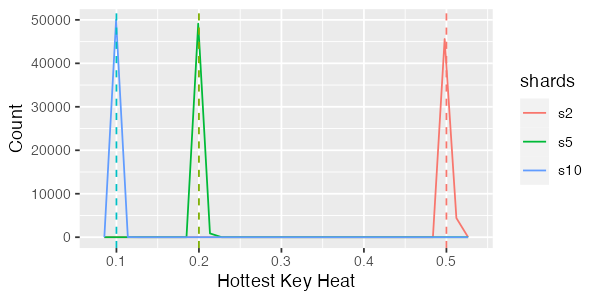
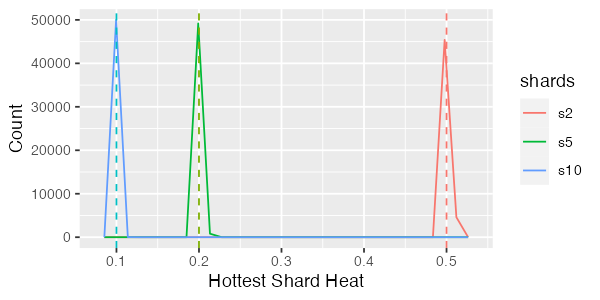
Link to sim code. Fix graph labels

Changed region(s): [[0.33, 0.9, 0.63, 0.96], [0.75, 0.87, 0.78, 0.9]]

diff --git a/_posts/2023-03-07-false-sharing.md b/_posts/2023-03-07-false-sharing.md
@@ -27,7 +27,7 @@ At the extreme end, where there is no stability in the key heat distribution, we
 
 How likely are we to get unlucky in this way?
 
-Let's start with uniformly distributed keys, and think about a database with 10,000 keys, sharded into 2, 5 or 10 different shards. Ideally, for the 2 shard database we'd like to see the hottest shard get 50% of the traffic. For the 10 shard database 10%. This is what the distribution looks like with 50,000 simulation runs (solid lines are simulation results, dotted vertical lines show 'perfect' sharding):
+Let's start with uniformly distributed keys, and think about a database with 10,000 keys, sharded into 2, 5 or 10 different shards. Ideally, for the 2 shard database we'd like to see the hottest shard get 50% of the traffic. For the 10 shard database 10%. This is what the distribution looks like with 50,000 simulation runs (solid lines are simulation results, dotted vertical lines show 'perfect' sharding)<sup>[2](#foot2)</sup>:
 
 ![Simulation results for false sharing on uniform keys](/blog/images/unif_false_sharing_pdf.png)
 
@@ -56,3 +56,4 @@ For example, consider a database table with an `SERIAL` or `AUTO_INCREMENT` prim
 **Footnotes**
 
 1. <a name="foot1"></a> Don't tell the English. If they ask you about it, tell them it's still the most important sporting event in history, then run.
+2. <a name="foot2"></a> You can check out the simulation code [on GitHub](https://github.com/mbrooker/simulator_example/blob/main/false_sharing/false-sharing.R) if you want to check my work, or try different distributions for yourself.
